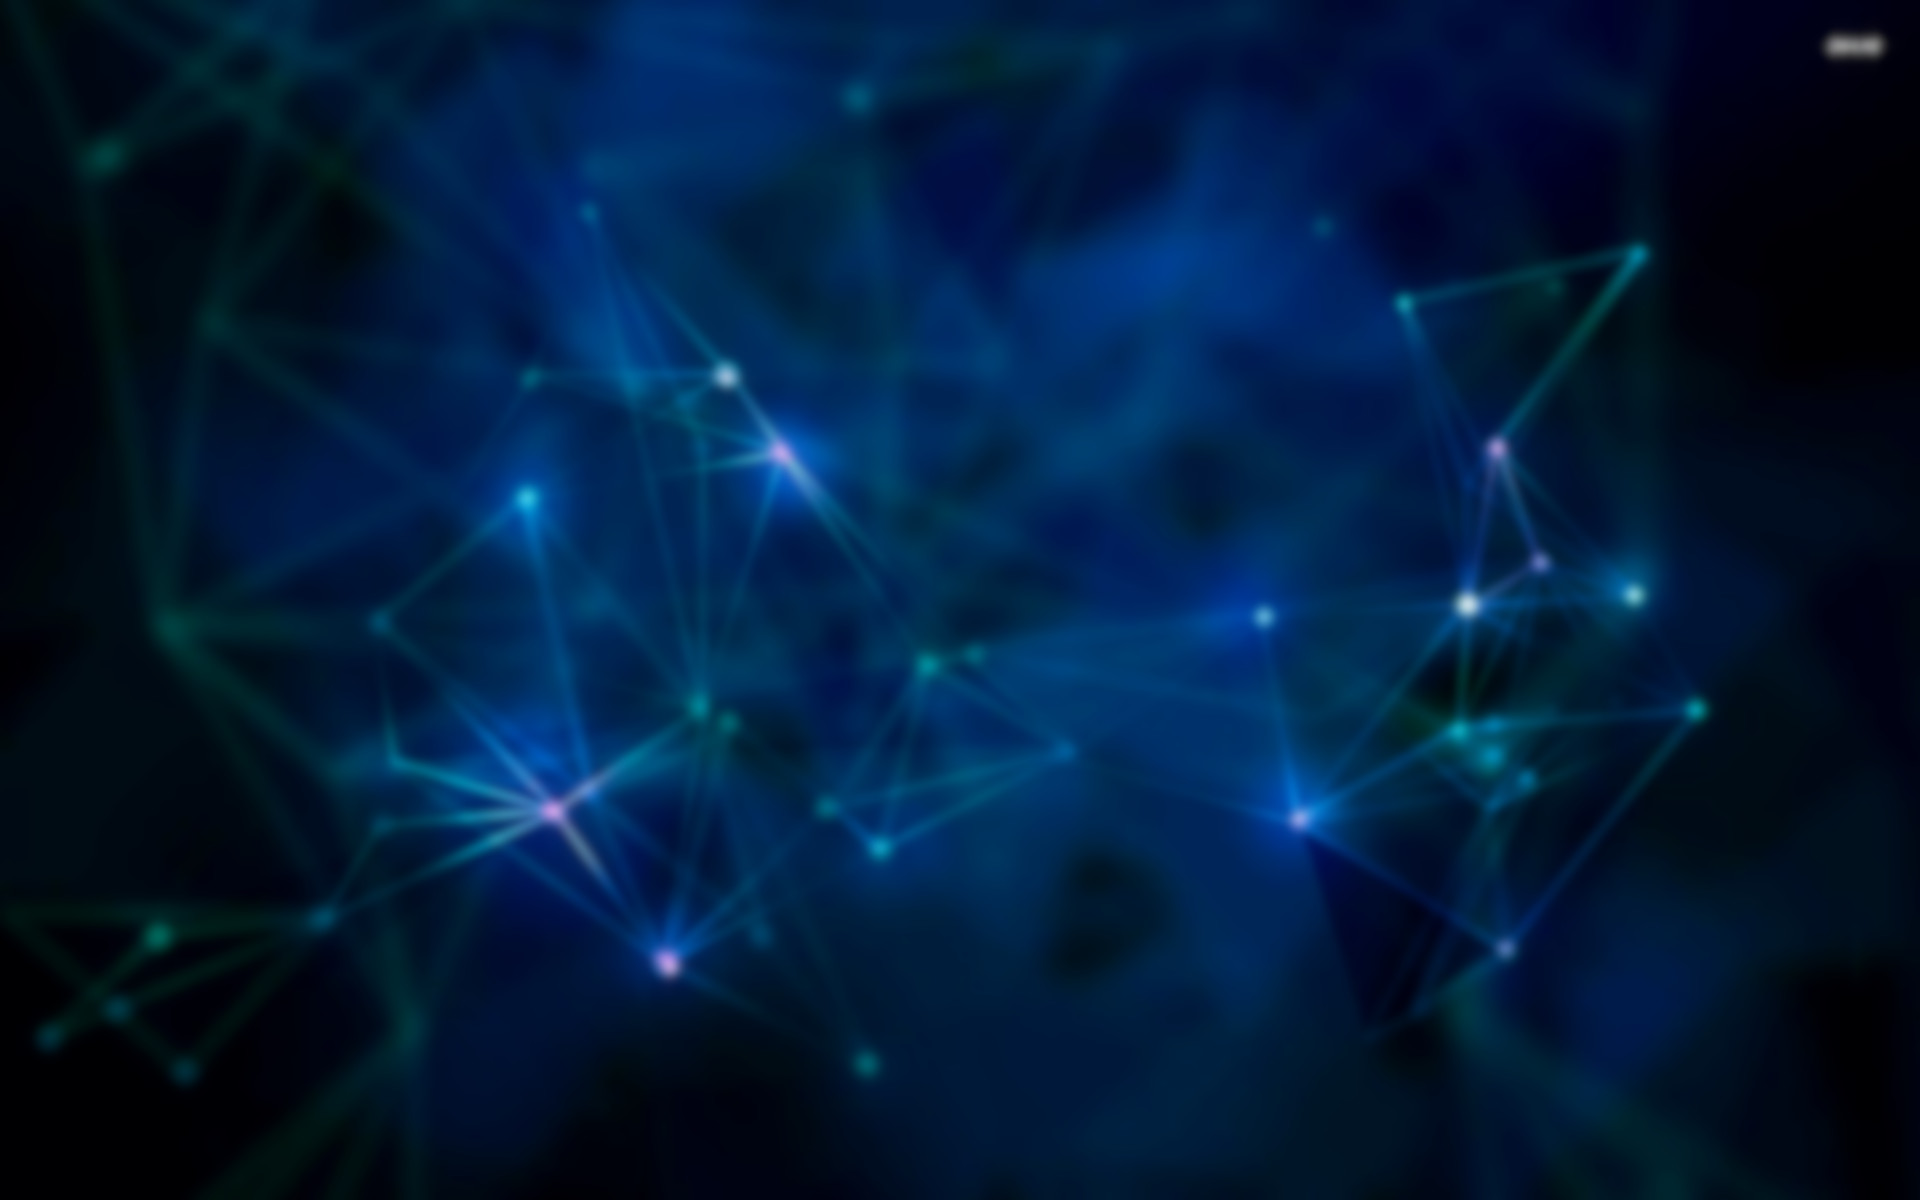
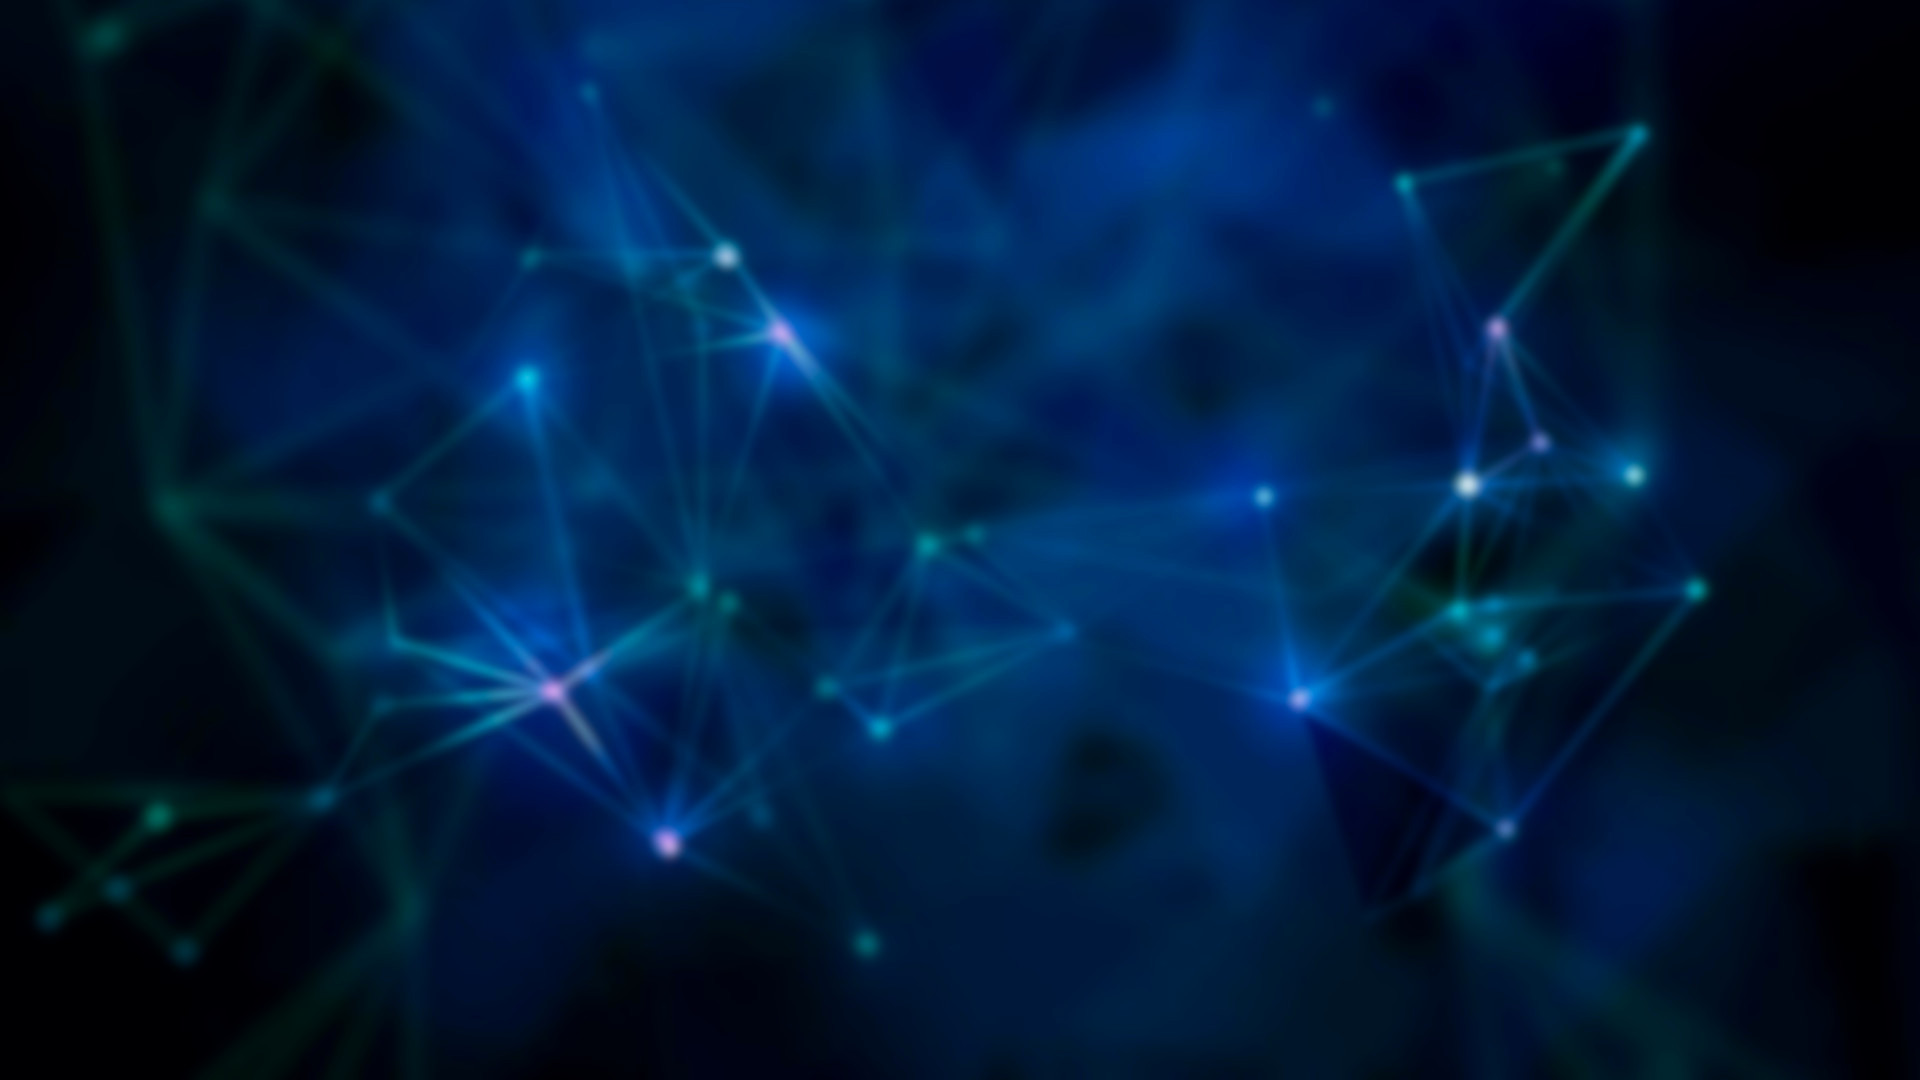
Fixes

diff --git a/www/public/css/explorer.css b/www/public/css/explorer.css
@@ -41,8 +41,8 @@ body {
     flex-shrink:0;
     gap:1rem;
     justify-content:space-between;
-    min-height:56px;
-    padding:.75rem 1.5rem
+    min-height:60px;
+    padding:0 1.5rem
 }
 
 .explorer__title {
@@ -55,29 +55,26 @@ body {
     font-weight:600;
     gap:.75rem;
     letter-spacing:.5px;
-    line-height:1.5;
     margin:0;
     min-width:0;
     padding:0
 }
 
 .explorer__icon {
+    display:inline-flex;
     align-items:center;
-    display:flex;
+    justify-content:center;
     filter:drop-shadow(0 0 8px #58a6ff80);
     flex-shrink:0;
-    font-size:1.5rem;
-    height:1.5rem;
-    justify-content:center;
-    line-height:1;
-    width:1.5rem
+    font-size:1.3rem;
+    width:1.5rem;
+    height:1.5rem
 }
 
 .explorer__path {
     align-items:center;
     display:flex;
     font-size:1.1rem;
-    line-height:1.5;
     word-break:break-all
 }
 

diff --git a/www/public/css/index.css b/www/public/css/index.css
@@ -1,5 +1,5 @@
 body {
-	background:#070606 url(/images/bg.jpg) no-repeat fixed center;
+	background:#070606 url(/images/16406299_rm373batch2-08.jpg) no-repeat fixed center;
 	background-size:cover
 }
 
@@ -11,8 +11,7 @@ body {
 	justify-content:center;
 	margin-top:-70px;
 	overflow:hidden;
-	padding:0 2rem;
-	padding-top:70px;
+	padding: 70px 2rem 0;
 	position:relative;
 	text-align:center
 }

diff --git a/www/public/css/metrics.css b/www/public/css/metrics.css
@@ -1,5 +1,5 @@
 body {
-    background:#070606 url(/images/bg.jpg) no-repeat fixed center;
+    background:#070606 url(/images/bg2.jpg) no-repeat fixed center;
     background-size:cover;
     overflow-x:hidden;
     padding-top:0!important
@@ -23,7 +23,7 @@ body {
     padding-bottom:1.5rem;
     position:relative;
     text-align:center;
-    text-shadow:0 0 12px #00a8fc80 0 0 20px #000c
+    text-shadow:0 0 12px #fff
 }
 
 .metrics-container h1::after {

diff --git a/www/public/css/false-positives.css b/www/public/css/false-positives.css
@@ -1,5 +1,5 @@
 body {
-	background:#070606 url(/images/bg.jpg) no-repeat fixed center;
+	background:#070606 url(/images/bg3.jpg) no-repeat fixed center;
 	background-size:cover;
 	padding-top:0!important
 }

diff --git a/www/routes/Blocklists/Index.js b/www/routes/Blocklists/Index.js
@@ -26,7 +26,7 @@ const formatFileSize = bytes => {
 };
 
 const getFileIcon = (fileName, isDirectory) =>
-	isDirectory ? 'open-folder.png'
+	isDirectory ? 'folder.png'
 		: TEXT_FILE_EXTENSIONS.has(path.extname(fileName).toLowerCase()) ? 'word.png'
 			: 'unknown-file.png';
 

diff --git a/www/public/images/flaticon/README.md b/www/public/images/flaticon/README.md
@@ -1,0 +1,2 @@
+<a href="https://www.flaticon.com/free-icons/open-folder" title="open folder icons">Open folder icons created by NajmunNahar - Flaticon</a>  
+<a href="https://www.flaticon.com/free-icons/folder" title="folder icons">Folder icons created by kmg design - Flaticon</a>

diff --git a/www/public/images/README.md b/www/public/images/README.md
@@ -1,0 +1,1 @@
+<a href="https://www.freepik.com/free-vector/5g-networking-technology-background-with-blue-digital-line_16406299.htm#fromView=search&page=1&position=5&uuid=9d857337-fd7f-4758-8785-140924140392&query=network">Image by rawpixel.com on Freepik</a>